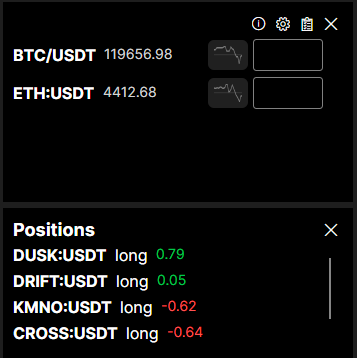
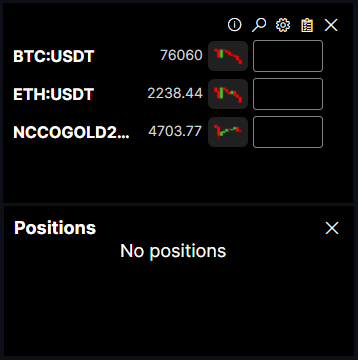
[dev] README修改
v1.0.8.0

diff --git a/README.md b/README.md
@@ -2,7 +2,7 @@
 
 [English](README.md) | [繁體中文](Readme/README.zh_TW.md) | [简体中文](Readme/README.zh_CN.md)
 
-File version: v1.0.7.0
+File version: v1.0.8.0
 
 A lightweight cryptocurrency price monitoring widget built with the Avalonia UI framework as a cross-platform desktop application.
 
@@ -16,7 +16,7 @@ A lightweight cryptocurrency price monitoring widget built with the Avalonia UI 
 
 ### 📊 Real-time Price Monitoring
 - **Multiple Exchange Support**: Based on ccxt supported types
-- **Price History Line Charts**: Generate line charts from 5-second historical data to visualize price trends
+- **Price History Line Charts**: Generate Mini K-Line charts to visualize price trends
 - **Temporary Recording Input Box**
 
 ### 💼 Portfolio Management

diff --git a/Readme/README.zh_CN.md b/Readme/README.zh_CN.md
@@ -2,7 +2,7 @@
 
 [English](../README.md) | [繁體中文](README.zh_TW.md) | [简体中文](README.zh_CN.md)
 
-文件对应版本：v1.0.7.0
+文件对应版本：v1.0.8.0
 
 一个轻量级的加密货币价格监控小工具，使用 Avalonia UI 框架开发的跨平台桌面应用程序。
 
@@ -16,7 +16,7 @@
 
 ### 📊 实时价格监控
 - **多个交易所支持**：依照ccxt支持类型
-- **价格历史折线图**：以每5秒的历史资料产生折线图可视化价格趋势
+- **价格历史折线图**：生成迷你 K 线图以可视化价格趋势
 - **临时记录用的输入框**
 
 ### 💼 投资组合管理

diff --git a/Readme/README.zh_TW.md b/Readme/README.zh_TW.md
@@ -2,7 +2,7 @@
 
 [English](../README.md) | [繁體中文](README.zh_TW.md) | [简体中文](README.zh_CN.md)
 
-文件對應版本：v1.0.7.0
+文件對應版本：v1.0.8.0
 
 一個輕量級的加密貨幣價格監控小工具，使用 Avalonia UI 框架開發的跨平台桌面應用程式。
 
@@ -16,7 +16,7 @@
 
 ### 📊 即時價格監控
 - **多個交易所支援**：依照ccxt支援類型
-- **價格歷史折線圖**：以每5秒的歷史資料產生折線圖視覺化價格趨勢
+- **價格歷史折線圖**：產生迷你 K 線圖以視覺化價格趨勢
 - **臨時紀錄用的輸入框**
 
 ### 💼 投資組合管理
